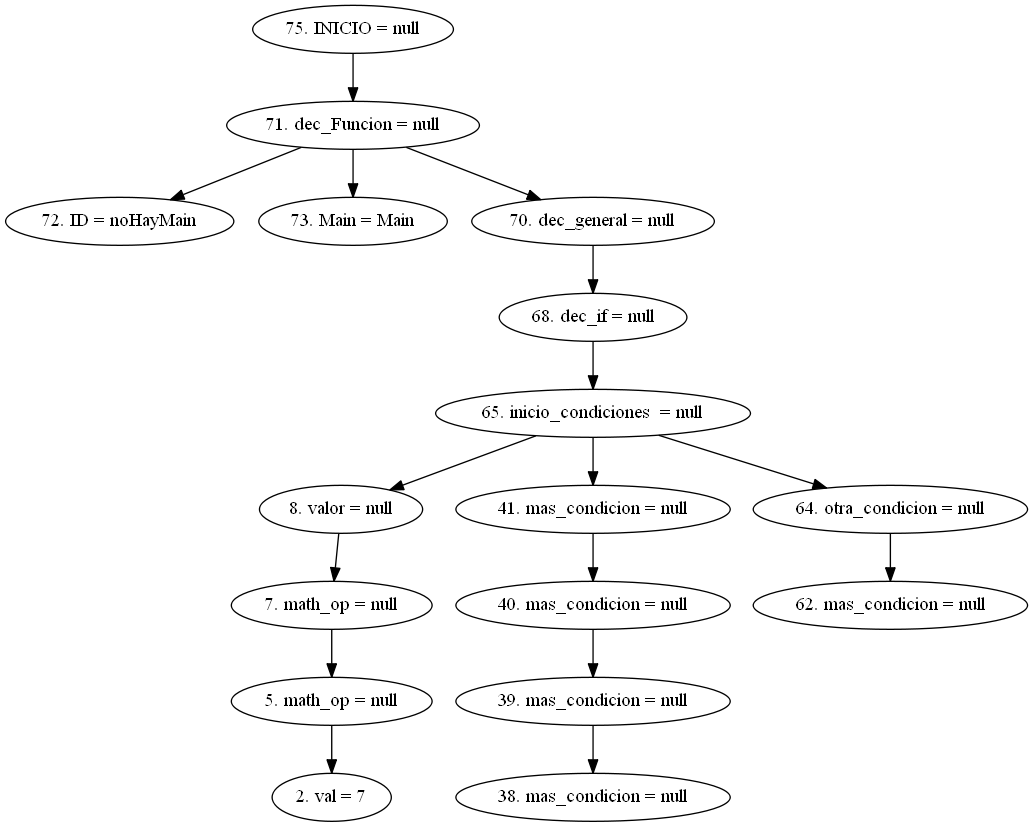
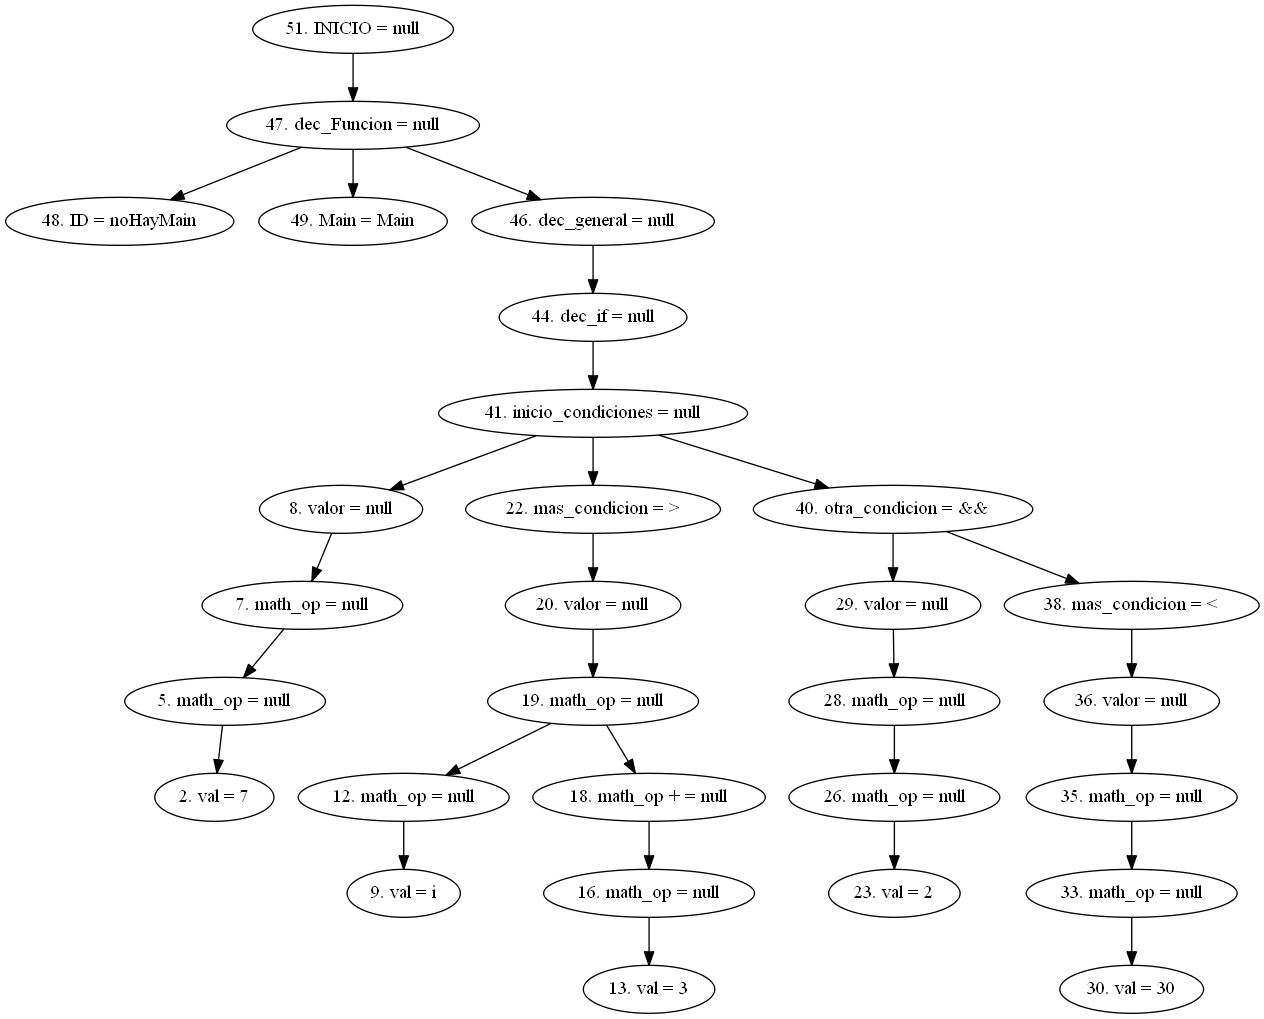
arreglos en las condiciones

Changed region(s): [[0.0, 0.0, 1.0, 0.9976], [0.8364, 0.9371, 0.9293, 0.9976], [0.9913, 0.7255, 1.0, 0.7557]]

diff --git a/src/nachts/parser.java b/src/nachts/parser.java
@@ -3525,7 +3525,8 @@ class CUP$parser$actions {
 		
                     parser.cont++;
                     Node node = new Node();
-                    node.setEtiqueta("inicio_condiciones ");
+                    node.setEtiqueta("inicio_condiciones");
+                    //node.setValor(vc.getValor());
                     node.setID(parser.cont);
                     node.addHijos((Node) vc);
                     node.addHijos((Node) masc);
@@ -3555,6 +3556,8 @@ class CUP$parser$actions {
                     Node node = new Node();
                     node.setEtiqueta("mas_condicion");
                     node.setID(parser.cont);
+                    node.setValor(opre);
+                    node.addHijos((Node) vc);
                     node.addHijos((Node) masc);
                     RESULT = node;
                 
@@ -3598,6 +3601,8 @@ class CUP$parser$actions {
                     Node node = new Node();
                     node.setEtiqueta("otra_condicion");
                     node.setID(parser.cont);
+                    node.setValor(oplg);
+                    node.addHijos((Node) vc);
                     node.addHijos((Node) masc);
                     node.addHijos((Node) otrac);
                     RESULT = node;
